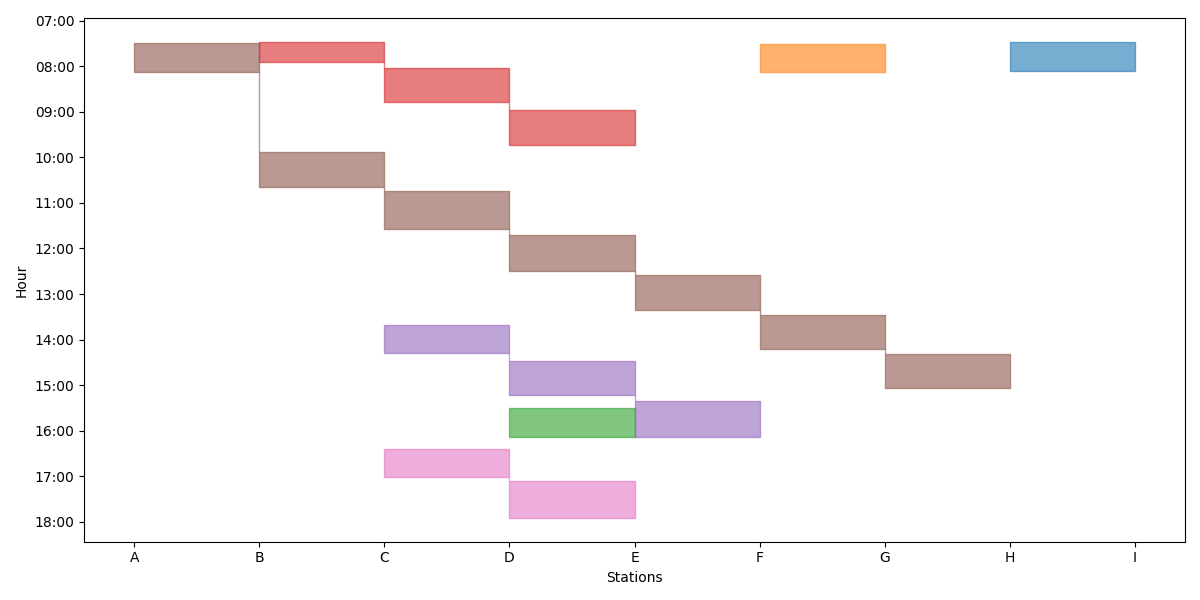
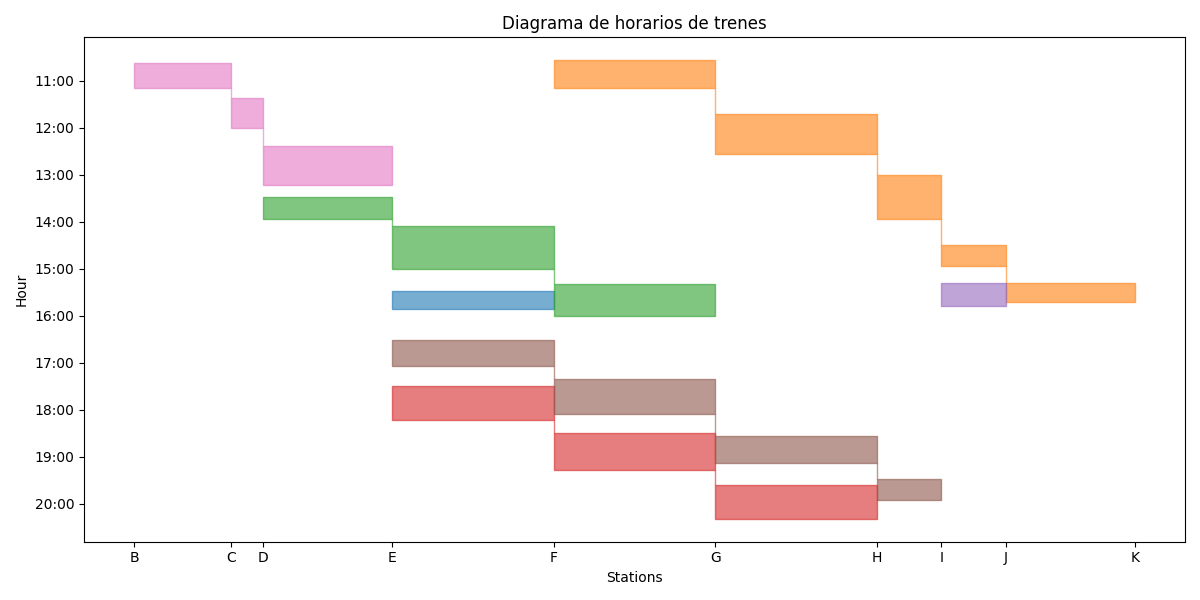
0.1d
Se asocia la generación de diagramas al formulario HTML y se realizan ajustes para la representación aleatoria de distancias en el diagrama y se corrige simLibrary.py para evitar solapamientos

diff --git a/src/simLibrary.py b/src/simLibrary.py
@@ -1,8 +1,9 @@
 import random as ran
 import src.dbLibrary as dbl
-import sys
+import src.generateDiagram as gd
 import re
 from datetime import timedelta, datetime
+
 
 # GLOBAL VARIABLES
 parameters = {
@@ -13,8 +14,8 @@ parameters = {
     "lowerTimeLimit": None,
     "nLines": None,
     "hourMargin": 0,
-    "lowerMinuteMargin": 15,
-    "higherMinuteMargin": 20,
+    "lowerMinuteMargin": 10,
+    "higherMinuteMargin": 40,
     "securityMargin": None
 }
 
@@ -92,6 +93,7 @@ def marginsTimetable(opt:int, times:list, line:int) -> list:
         
     elif opt == 2:
         return([times[i] + timedelta(minutes=parameters["securityMargin"]) for i in range(0, len(times))])
+    
 
 def generateTimetable(limits:tuple, trip:tuple):    
     print("[DEBUG] Entrando en generateTimetable 🚂")
@@ -101,6 +103,7 @@ def generateTimetable(limits:tuple, trip:tuple):
     used_lines = lines.copy()
     valid_timeTables = []
     valid_lines = []
+    valid_stations = []
     tt = stationsDefault(trip)
     counter = 0
     
@@ -128,7 +131,7 @@ def generateTimetable(limits:tuple, trip:tuple):
                     
                     while arrival > limits[1] and (arrival + timedelta(minutes=parameters["securityMargin"])) > limits[1]:
                         counter += 1
-                        if counter > 10:
+                        if counter > 200:
                             raise ValueError("Simulación fallida.")
                         
                         else:
@@ -150,7 +153,7 @@ def generateTimetable(limits:tuple, trip:tuple):
 
                     while arrival > limits[1] and (arrival + timedelta(minutes=parameters["securityMargin"])) > limits[1]:
                         counter += 1
-                        if counter > 10:
+                        if counter > 200:
                             raise ValueError("Simulación fallida.")
                         
                         else:
@@ -169,8 +172,8 @@ def generateTimetable(limits:tuple, trip:tuple):
             current_timeTable:list = timeTable[lines.index(current_line)]
             current_stations:list = stations[lines.index(current_line)]
             
-            for station in range(ord(stations[lines.index(valid_lines[len(valid_lines) - 1])][0]), ord(stations[lines.index(valid_lines[len(valid_lines) - 1])][1])):
-                tt[chr(station)].append(valid_timeTables[valid_lines.index(valid_lines[len(valid_lines) - 1])][1][ord(stations[lines.index(valid_lines[len(valid_lines) - 1])][1]) - station - 1])
+            for station in range(ord(valid_stations[0]), ord(valid_stations[1])):
+                tt[chr(station)].append(valid_timeTables[-1][1][station - ord(valid_stations[0])])
             
             for station in range(ord(current_stations[0]), ord(current_stations[1])):
                                     
@@ -185,7 +188,7 @@ def generateTimetable(limits:tuple, trip:tuple):
 
                         while arrival > limits[1] and (arrival + timedelta(minutes=parameters["securityMargin"])) > limits[1]:
                             counter += 1
-                            if counter > 10:
+                            if counter > 200:
                                 raise ValueError("Simulación fallida.")
                         
                             else:
@@ -207,7 +210,7 @@ def generateTimetable(limits:tuple, trip:tuple):
 
                         while arrival > limits[1] and (arrival + timedelta(minutes=parameters["securityMargin"])) > limits[1]:
                             counter += 1
-                            if counter > 10:
+                            if counter > 200:
                                 raise ValueError("Simulación fallida.")
                         
                             else:
@@ -231,7 +234,7 @@ def generateTimetable(limits:tuple, trip:tuple):
 
                         while arrival > limits[1] and (arrival + timedelta(minutes=parameters["securityMargin"])) > limits[1]:
                             counter += 1
-                            if counter > 10:
+                            if counter > 200:
                                 raise ValueError("Simulación fallida.")
                         
                             else:
@@ -253,7 +256,7 @@ def generateTimetable(limits:tuple, trip:tuple):
 
                         while arrival > limits[1] and (arrival + timedelta(minutes=parameters["securityMargin"])) > limits[1]:
                             counter += 1
-                            if counter > 10:
+                            if counter > 200:
                                 raise ValueError("Simulación fallida.")
                         
                             else:
@@ -272,6 +275,7 @@ def generateTimetable(limits:tuple, trip:tuple):
         current_timeTable.append(horas_salida)
         current_timeTable.append(horas_llegada)
         valid_timeTables.append(current_timeTable)
+        valid_stations = [current_stations[0], current_stations[1]]
 
         print(f"[DEBUG] Modificando linea: {current_line}", flush=True)
         print(f"[DEBUG] Nuevo Timetable: {current_timeTable}", flush=True)
@@ -299,4 +303,7 @@ def generateTimetable(limits:tuple, trip:tuple):
 
         except Exception as e:
             print(f"[ERROR] Fallo modificando MongoDB para {current_line}: {e}", flush=True)
+
+    gd.generateDiagram()
+
 

diff --git a/src/generateDiagram.py b/src/generateDiagram.py
@@ -1,0 +1,117 @@
+from src import dbLibrary as dbl
+import matplotlib.pyplot as plt
+import matplotlib.dates as mdates
+import matplotlib.colors as mcolors
+from datetime import datetime
+import random as ran
+import os
+
+def generateRandomPositions(stations, minDistance=1, maxDistance=5):
+    distance = {}
+    position = 0
+    for station in stations:
+        distance[station] = position
+        position += ran.randint(minDistance, maxDistance)
+
+    return distance
+            
+
+def generateDiagram(outputPath="./railSim/railSimulator/static/img/diagrama.png"):
+    #=== CONFIGURATION ===
+    segments = []
+    collection = dbl.selectCollection("trainLines", "TFG")
+    lines = dbl.readCollection(collection)
+    
+    colors = [
+        "#1f77b4",  # azul
+        "#ff7f0e",  # naranja
+        "#2ca02c",  # verde
+        "#d62728",  # rojo
+        "#9467bd",  # morado
+        "#8c564b",  # marrón oscuro
+        "#e377c2",  # rosa fuerte
+        "#7f7f7f",  # gris
+        "#bcbd22",  # verde oliva
+        "#17becf",  # azul celeste
+        "#393b79",  # azul marino
+        "#637939",  # verde musgo
+        "#8c6d31",  # marrón dorado
+        "#843c39",  # rojo vino
+        "#7b4173"   # púrpura intenso
+    ]
+    rangeStations = 0
+    stationEnd = 0
+    stationOrg = 0
+    indice = 0
+    
+    if os.path.exists("./railSim/railSimulator/static/img/diagrama.png"):
+        os.remove("./railSim/railSimulator/static/img/diagrama.png")
+
+    #=== SEGMENTS TO DRAW ===#
+    for line in lines:
+        color = colors[indice] 
+
+        stations = line["Stations"]
+
+        departures = line["Timetable_Margins"][0]
+        arrivals = line["Timetable_Margins"][1]
+
+        indice += 1
+    
+        for i in range(len(departures)):
+                seg = {
+                    "station_origin": chr(ord(stations[0]) + i),
+                    "station_destiny": chr(ord(stations[0]) + i + 1),
+                    "departure": departures[i],
+                    "arrival": arrivals[i],
+                    "color": color
+                }
+
+                if i < (len(departures) - 1):
+                    seg_uni = {
+                        "station_origin": chr(ord(stations[0]) + i + 1),
+                        "station_destiny": chr(ord(stations[0]) + i + 1),
+                        "departure": arrivals[i],
+                        "arrival": departures[i+1],
+                        "color": color  
+                    }
+
+                    segments.append(seg_uni)
+
+                segments.append(seg)
+            
+
+                if ord(stations[0]) < 65 or ord(stations[0]) < stationOrg:
+                    stationOrg = ord(stations[0])
+
+                if ord(stations[1]) < 65 or ord(stations[1]) > stationEnd:
+                    stationEnd = ord(stations[1])
+
+                rangeStations = stationEnd - stationOrg
+
+        stationsDiagram = [chr(stationOrg), chr(stationOrg + rangeStations)]
+        stationlist = [chr(i) for i in range(ord(stationsDiagram[0]), ord(stationsDiagram[1]) + 1)]
+
+    est_to_y = generateRandomPositions(stationlist, minDistance=1, maxDistance=5)
+    fig, ax = plt.subplots(figsize=(12,6))
+    ax.set_xticks(list(est_to_y.values()))
+    ax.set_xticklabels(list(est_to_y.keys()))
+    ax.set_title("Diagrama de horarios de trenes")
+    ax.yaxis.set_major_formatter(mdates.DateFormatter('%H:%M'))
+    ax.yaxis.set_major_locator(mdates.HourLocator(interval=1))
+    ax.set_ylabel("Hour")
+    ax.set_xlabel("Stations")
+    ax.invert_yaxis()
+
+    for seg in segments:
+        y0 = est_to_y[seg["station_origin"]]
+        y1 = est_to_y[seg["station_destiny"]]
+        x0 = seg["departure"]
+        x1 = seg["arrival"]
+        ax.fill_between([y0,y1], x0, x1, color=seg["color"], alpha=0.6)
+
+    plt.tight_layout()
+    plt.savefig(outputPath)
+    plt.close()
+    print(f"Diagrama guardado como {outputPath}")
+
